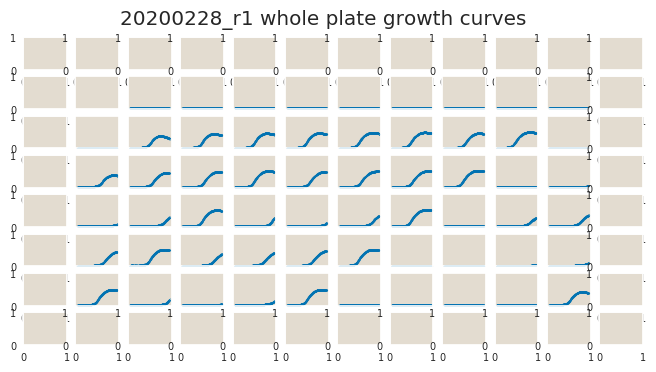
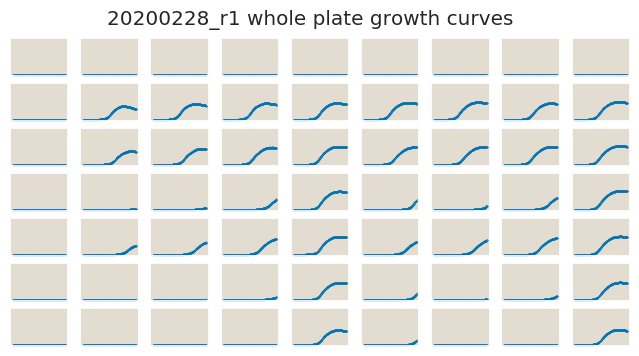
edited README and fixed growth curve plot

diff --git a/code/processing/growth_curves_plate_reader/20200228_r1_O1_constructs_tetracycline_test/growth_plate_reader_processing.py b/code/processing/growth_curves_plate_reader/20200228_r1_O1_constructs_tetracycline_test/growth_plate_reader_processing.py
@@ -131,3 +131,5 @@ for r in np.arange(layout_shape[0]):
 fig.suptitle(f'{DATE}_r{RUN_NO} whole plate growth curves', y=0.95)
 plt.savefig(f'output/growth_plate_summary.pdf',
             bbox_inches='tight')
+plt.savefig(f'output/growth_plate_summary.png',
+            bbox_inches='tight')

diff --git a/code/processing/growth_curves_plate_reader/20200228_r1_O1_constructs_tetracycline_test/README.md b/code/processing/growth_curves_plate_reader/20200228_r1_O1_constructs_tetracycline_test/README.md
@@ -3,26 +3,26 @@ status: Rejected
 reason: experiment not yet completed
 ---
 
-# YYY-MM-DD Plate Reader Growth Measurement
+# 2020-02-28 Plate Reader Growth Measurement
 
 ## Purpose
-This experiment aims to measure the growth rate of the *E. coli* strains of interest in media with XX selection.
+This experiment aims to measure the growth rate of the *E. coli* strains of interest in media with selection for resistance to the antibiotic tetracycline.
 
 ## Strain Information
 
 | Plasmid | Genotype | Host Strain | Shorthand |
 | :------ | :------- | ----------: | --------: |
-| `pZS4*5-mCherry`| `galK<>25O1+11-sacB-cmR-YFP` |  HG105 |`O1 R0` |
-| `pZS4*5-mCherry`| `galK<>25O1+11-sacB-cmR-YFP` |  HG104 |`O1 R22` |
-| `pZS4*5-mCherry`| `galK<>25O1+11-sacB-cmR-YFP`, `ybcN<>4*5-RBS1027-lacI` |  HG105 |`O1 R260` |
-| `pZS4*5-mCherry`| `galK<>25O1+11-sacB-cmR-YFP`, , `ybcN<>4*5-RBS1L-lacI` |  HG105 |`O1 R1740` |
-| `pZS4*5-mCherry`| `galK<>25O2+11-sacB-cmR-YFP` |  HG105 |`O2 R0` |
-| `pZS4*5-mCherry`| `galK<>25O2+11-sacB-cmR-YFP` |  HG104 |`O2 R22` |
-| `pZS4*5-mCherry`| `galK<>25O2+11-sacB-cmR-YFP`, `ybcN<>4*5-RBS1027-lacI` |  HG105 |`O2 R260` |
-| `pZS4*5-mCherry`| `galK<>25O2+11-sacB-cmR-YFP`, , `ybcN<>4*5-RBS1L-lacI` |  HG105 |`O2 R1740` |
+| `pZS4*5-mCherry`| `galK<>25O1+11-tetA-cmR-YFP`, , `ybcN<>4*5-RBS1L-lacI` |  HG105 |`O1 R1740` |
+| `pZS4*5-mCherry`| `galK<>25O1+11-tetA-cmR-YFP`, `ybcN<>4*5-RBS1027-lacI` |  HG105 |`O1 R260` |
+| `pZS4*5-mCherry`| `galK<>25O1+11-tetA-cmR-YFP` |  HG104 |`O1 R22` |
+| `pZS4*5-mCherry`| `galK<>25O1+11-tetA-cmR-YFP` |  HG105 |`O1 R0` |
+| `pZS4*5-CFP`| `galK<>25O1+11-tetA-cmR-YFP`, , `ybcN<>4*5-RBS1L-lacI` |  HG105 |`O1 R1740` |
+| `pZS4*5-CFP`| `galK<>25O1+11-tetA-cmR-YFP`, `ybcN<>4*5-RBS1027-lacI` |  HG105 |`O1 R260` |
+| `pZS4*5-CFP`| `galK<>25O1+11-tetA-cmR-YFP` |  HG104 |`O1 R22` |
+| `pZS4*5-CFP`| `galK<>25O1+11-tetA-cmR-YFP` |  HG105 |`O1 R0` |
 
 ## Notes & Observations
-
+Concentrations for row 4 and 5 are switched. 
 
 ## Analysis Files
 
@@ -34,15 +34,14 @@ This experiment aims to measure the growth rate of the *E. coli* strains of inte
 
 ## Experimental Protocol
 
-1. Cells as described in "Strain Information" were grown to saturation in 0.5 mL
-of LB in a deep 96 well plate.
+1. Cells as described in "Strain Information" were grown to saturation in 4 mL
+of LB in 14ml growth tubes.
 
-2. Cells were diluted 1:10,000 into M9 + 0.5% glucose media on a new deep 96
-well plate 12 hours before the experiment for cells to be at exponential growth.
+2. Cells were diluted 1:1,000 into M9 + 0.5% glucose media in new deep growth tubes for 8 hours before the experiment for cells to be at exponential growth.
 
-3. The cells were then diluted 1:40 into the plate reader 96 well plate with a
+3. The cells were then diluted 1:100 into the plate reader 96 well plate with a
 total volume of 300 µL.
 
 4. The plate was placed in a Biotek Gen5 plate reader and grown at 37C, shaking
-in a linear mode at the fastest speed. Measurements were taken every 7 minutes
-for approximately 36 hours.
+in a linear mode at the fastest speed. Measurements were taken every 5 minutes
+for approximately 28 hours.
